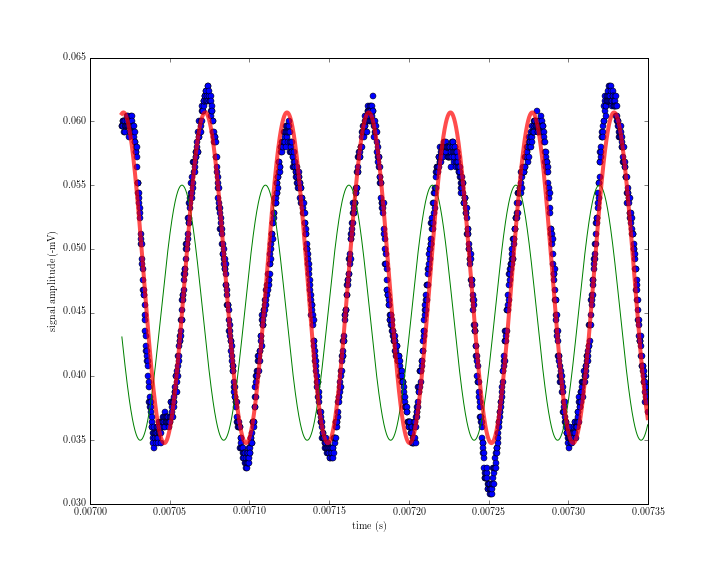
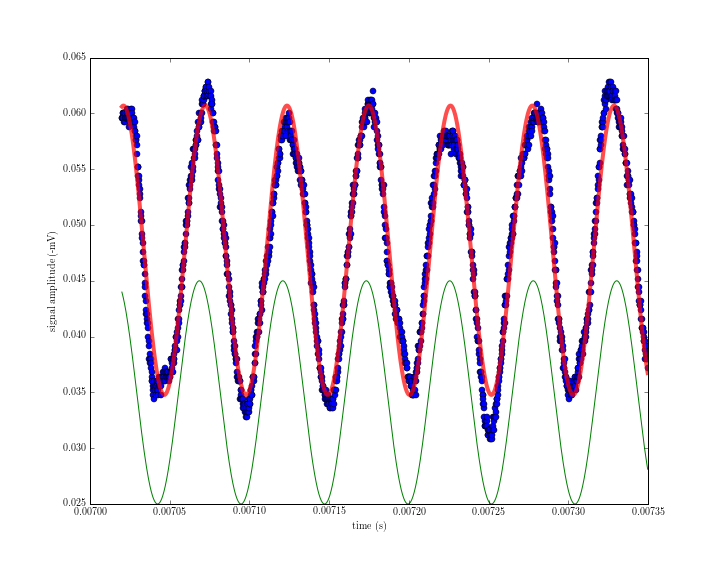
a few more calculations, still need to check gyromagnetic ratio

diff --git a/Optical_Pumping/data_processing.py b/Optical_Pumping/data_processing.py
@@ -25,7 +25,7 @@ def larmor_fit(dataset):
     def sin_function(x, A, w, d, c):
         return A*np.sin(w*x + d) + c
 
-    p = [.01, 80e3, 22*np.pi/24, .035]
+    p = [.01, 150e3, np.pi/2, .035]
 
     popt, pcov = curve_fit(sin_function, sel_xdata, sel_ydata, p0 = p)
 
@@ -42,10 +42,37 @@ def larmor_fit(dataset):
     plt.plot(sel_xdata, yFit, 'r', lw = 4, alpha = .7)
     plt.xlabel("time (s)")
     plt.ylabel("signal amplitude (-mV)")
-    plt.savefig("plots/(%s.%s).png" % (dset[0].split("/")[1], dset[1]))
+    plt.savefig("plots/({}.{}).png".format(dset[0].split("/")[1], dset[1]))
 
-    # save the fit parameters into a file to plot/fit
+    with open('fitparms_{}.{}.tsv'.format(dset[0].split("/")[1], dset[1]), 'w')\
+      as f:
+        for key in sorted(parms.keys()):
+            f.write("{}\t{}\n".format(key, parms[key]))
+
+def gyromagnetic_ratio_fit():
+    data20 = np.genfromtxt("fitparms_larmor_y0.020A.tsv", usecols=(1))
+    data33 = np.genfromtxt("fitparms_larmor_y0.033A.tsv", usecols=(1))
+    data40 = np.genfromtxt("fitparms_larmor_y0.040A.tsv", usecols=(1))
+    data45 = np.genfromtxt("fitparms_larmor_y0.045A.tsv", usecols=(1))
+    data55 = np.genfromtxt("fitparms_larmor_y0.055A.tsv", usecols=(1))
+    data65 = np.genfromtxt("fitparms_larmor_y0.065A.tsv", usecols=(1))
+
+    Is = [.02, .033, .04, .045, .055, .065]
+
+    freqs = [data20[1], data33[1], data40[1], data45[1], data55[1], data65[1]]
+
+    def lin(x, A, B):
+        return A*x + B
+
+    popt, pcov = curve_fit(lin, Is, freqs, p0 = np.polyfit(Is, freqs, 1))
+
+    yFit = np.poly1d(popt)
+
+    print yFit
+
+    plt.plot(Is, freqs, 'o')
+    plt.plot(Is, yFit(Is), 'r')
 
 
 if __name__ == '__main__':
-    larmor_fit("data/larmor_y0.020A.tsv")
+    gyromagnetic_ratio_fit()
